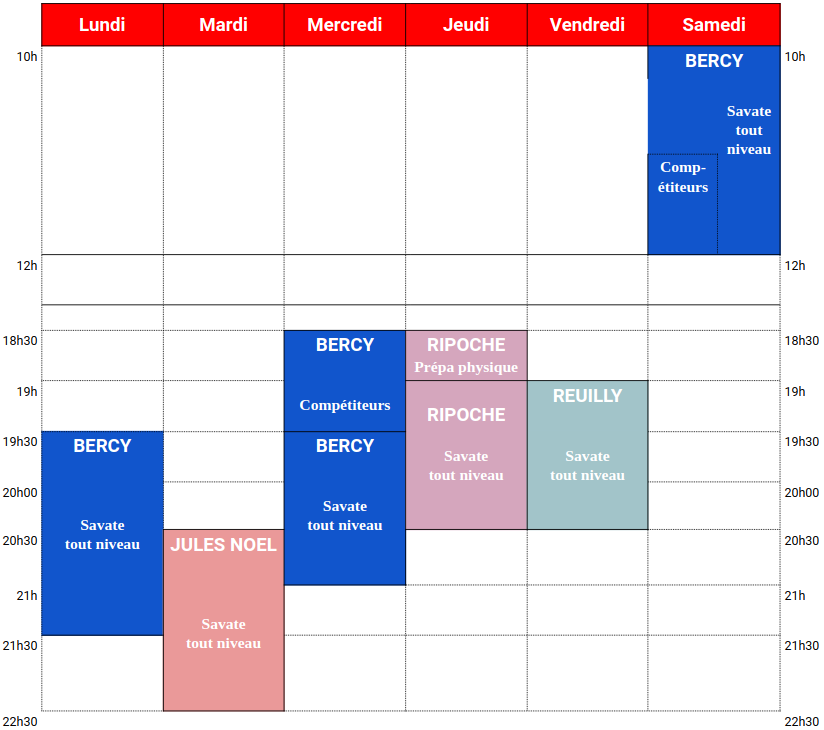
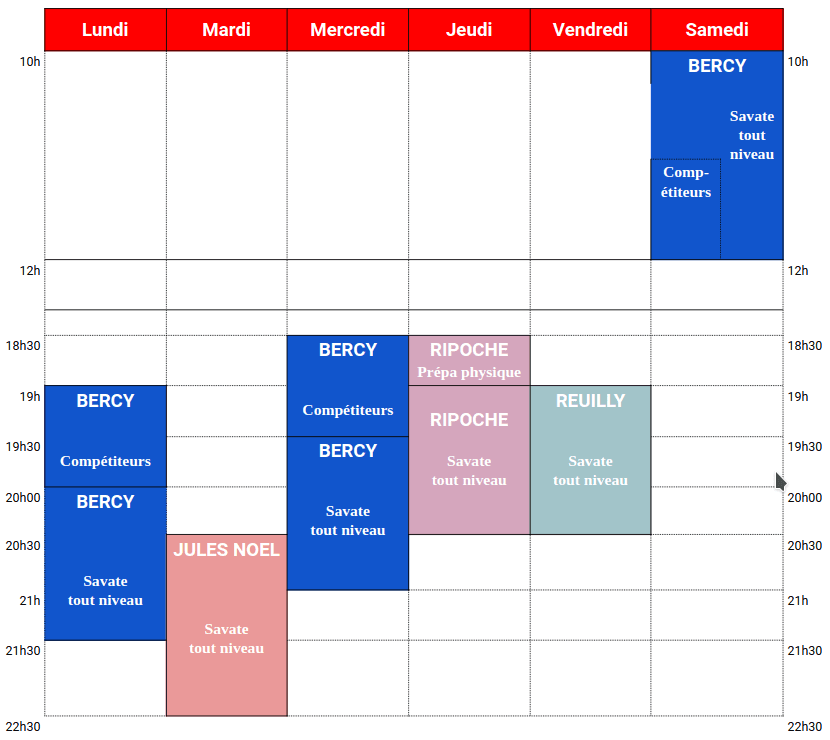
cms: change planning

Changed region(s): [[0.0, 0.0, 1.0, 0.9945], [0.5158, 0.6027, 0.6068, 0.663], [0.5461, 0.5425, 0.6068, 0.5726]]

diff --git a/src/pages/planning.js b/src/pages/planning.js
@@ -102,7 +102,13 @@ class Planning extends React.Component {
                   <tbody>
                   <tr>
                     <td>Lundi</td>
-                    <td>19:30 - 21:30</td>
+                    <td>19:00 - 20:00</td>
+                    <td>Bercy</td>
+                    <td>Savate compétiteurs</td>
+                  </tr>
+                  <tr>
+                    <td></td>
+                    <td>20:00 - 21:30</td>
                     <td>Bercy</td>
                     <td>Savate tout niveau</td>
                   </tr>
